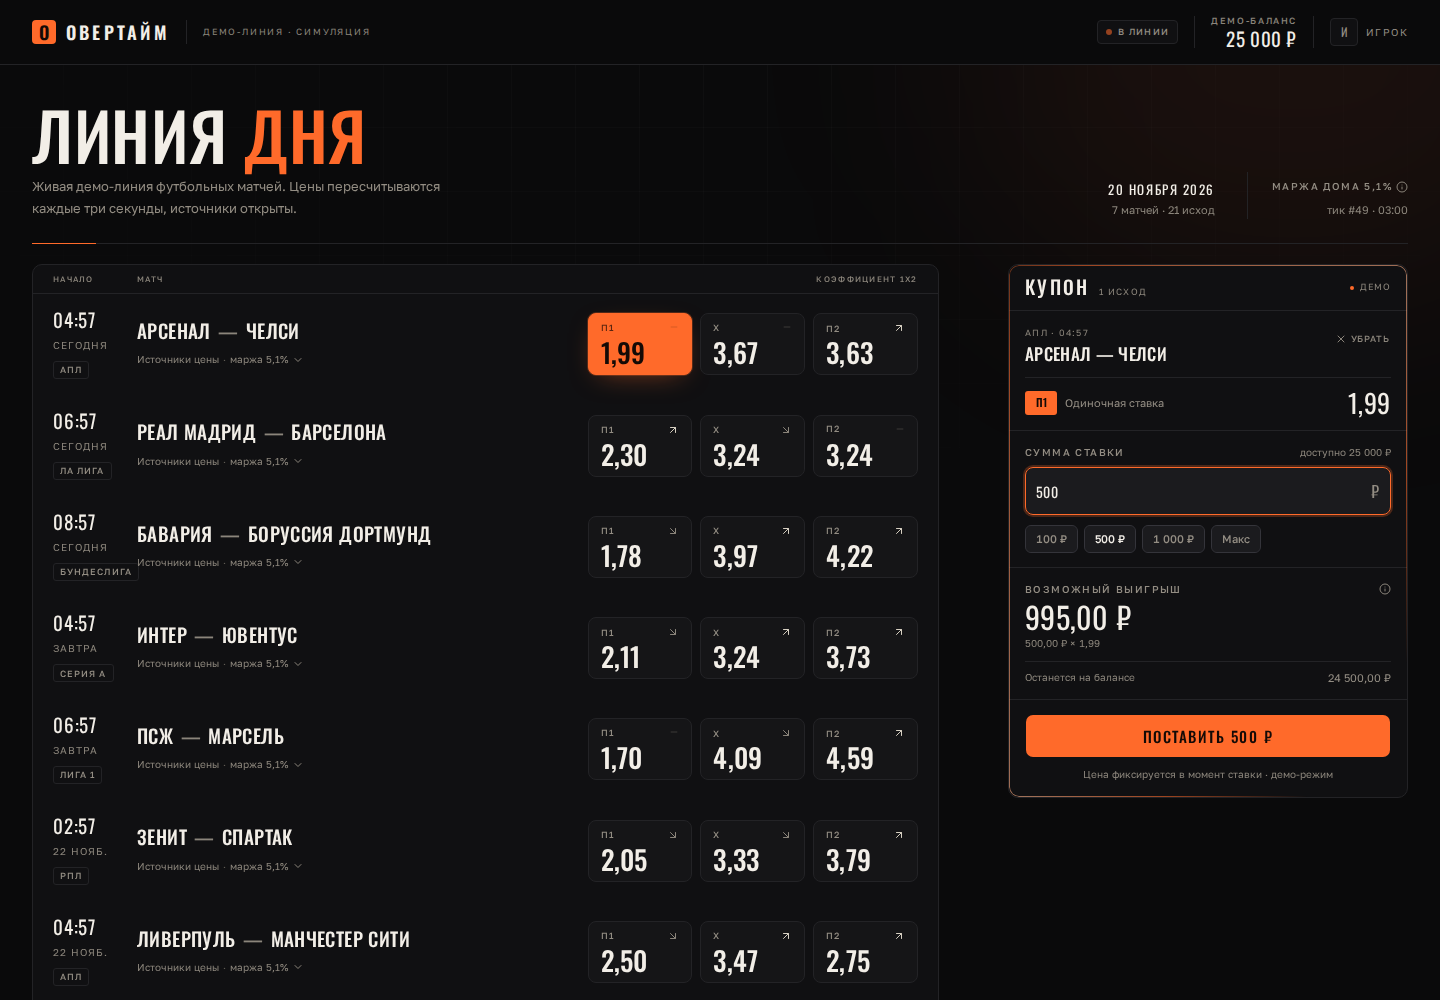
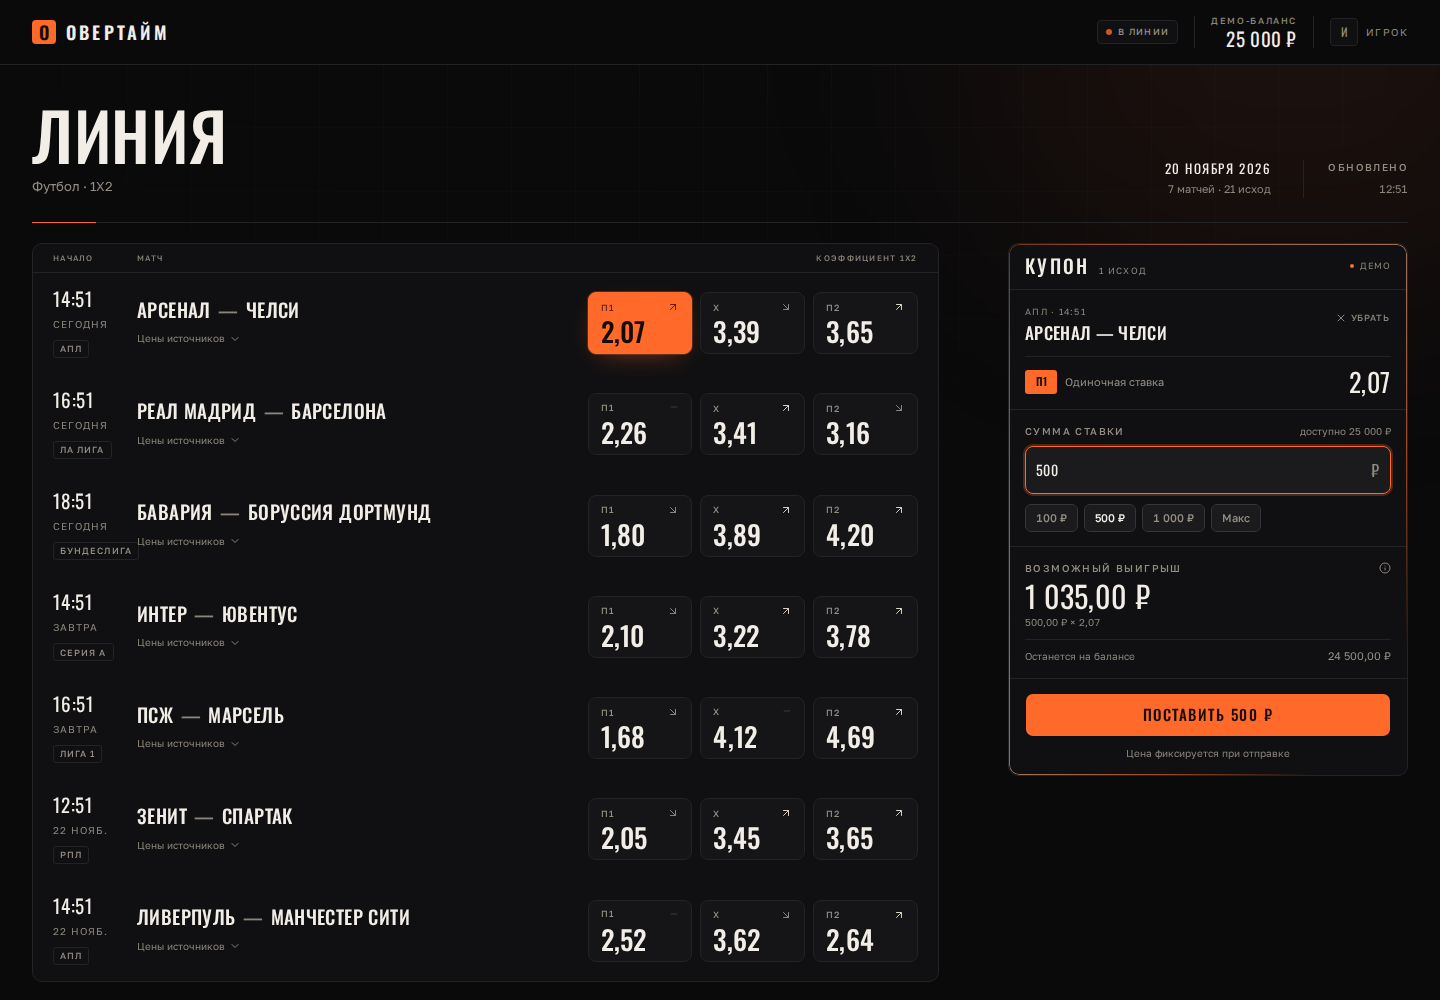
copy: remove margin and internal jargon from the customer UI

diff --git a/frontend/src/components/SourceBreakdown.vue b/frontend/src/components/SourceBreakdown.vue
@@ -1,21 +1,10 @@
 <script setup lang="ts">
-import { computed } from 'vue'
-import { Info } from 'lucide-vue-next'
 import type { Match } from '@/api/types'
-import { Tooltip, TooltipContent, TooltipTrigger } from '@/components/ui/tooltip'
-import { formatMarginBps, formatOdds } from '@/lib/format'
+import { formatOdds } from '@/lib/format'
 
 const props = defineProps<{
   match: Match
-  marginBps: number
 }>()
-
-const margin = computed(() => formatMarginBps(props.marginBps))
-
-const explanation = computed(
-  () =>
-    `PulseBet и SharpLine дают независимые цены. Сначала снимаем их маржу (де-виг), затем смешиваем 40/60 и добавляем маржу дома ${margin.value}. Наша цена округлена вниз до сотых.`,
-)
 
 function sourcePrice(outcomeIndex: number, sourceId: string): string {
   const outcome = props.match.outcomes[outcomeIndex]
@@ -26,39 +15,20 @@ function sourcePrice(outcomeIndex: number, sourceId: string): string {
 
 <template>
   <div class="overflow-hidden rounded-lg border border-line bg-[#0c0c0e]">
-    <div class="flex flex-wrap items-center justify-between gap-x-4 gap-y-1 border-b border-line px-3 py-2">
+    <div class="border-b border-line px-3 py-2">
       <span class="text-[9px] font-medium uppercase tracking-[0.16em] text-muted-foreground">
-        Как собрана цена
+        Цены источников
       </span>
-      <span class="tabular text-[10px] text-faint">де-виг 40/60 · маржа {{ margin }}</span>
     </div>
 
     <table class="w-full border-collapse text-left">
-      <caption class="sr-only">Источники цены для {{ match.homeTeam }} — {{ match.awayTeam }}</caption>
+      <caption class="sr-only">Цены источников для {{ match.homeTeam }} — {{ match.awayTeam }}</caption>
       <thead>
         <tr class="text-[8px] uppercase tracking-[0.14em] text-faint">
           <th scope="col" class="px-3 py-1.5 font-medium">Исход</th>
           <th scope="col" class="px-2 py-1.5 font-medium">PulseBet</th>
           <th scope="col" class="px-2 py-1.5 font-medium">SharpLine</th>
-          <th scope="col" class="px-2 py-1.5 text-right font-medium">
-            <span class="inline-flex items-center gap-1">
-              Наша линия
-              <Tooltip>
-                <TooltipTrigger as-child>
-                  <button
-                    type="button"
-                    class="inline-flex rounded-[2px] text-faint outline-none hover:text-foreground focus-visible:text-sodium focus-visible:outline focus-visible:outline-1 focus-visible:outline-offset-2 focus-visible:outline-sodium"
-                    aria-label="Как считается наша линия"
-                  >
-                    <Info class="size-2.5" aria-hidden="true" />
-                  </button>
-                </TooltipTrigger>
-                <TooltipContent side="top" :side-offset="6" class="max-w-[280px] leading-relaxed">
-                  {{ explanation }}
-                </TooltipContent>
-              </Tooltip>
-            </span>
-          </th>
+          <th scope="col" class="px-2 py-1.5 text-right font-medium">Наша цена</th>
         </tr>
       </thead>
       <tbody>
@@ -84,7 +54,7 @@ function sourcePrice(outcomeIndex: number, sourceId: string): string {
     </table>
 
     <p class="border-t border-line/70 px-3 py-2 text-[10px] leading-relaxed text-faint">
-      Источники симулированы. Наша линия — их консенсус плюс маржа дома, без обещания прибыли.
+      Источники цен симулированы.
     </p>
   </div>
 </template>

diff --git a/frontend/src/components/LineMasthead.vue b/frontend/src/components/LineMasthead.vue
@@ -1,22 +1,14 @@
 <script setup lang="ts">
 import { computed } from 'vue'
-import { Info } from 'lucide-vue-next'
 import { Skeleton } from '@/components/ui/skeleton'
-import { Tooltip, TooltipContent, TooltipTrigger } from '@/components/ui/tooltip'
 import { useLine } from '@/composables/useLine'
-import { formatDateLong, formatInteger, formatMarginBps, formatTime, pluralRu } from '@/lib/format'
+import { formatDateLong, formatInteger, formatTime, pluralRu } from '@/lib/format'
 
 const { snapshot, loading } = useLine()
 
 const matchCount = computed(() => snapshot.value?.matches.length ?? 0)
 const outcomeCount = computed(
   () => snapshot.value?.matches.reduce((sum, match) => sum + match.outcomes.length, 0) ?? 0,
-)
-const margin = computed(() => formatMarginBps(snapshot.value?.marginBps ?? 500))
-
-const marginExplanation = computed(
-  () =>
-    `Две линии (PulseBet ≈ 3% и SharpLine ≈ 6% маржи) де-вигуются, смешиваются 40/60 и получают маржу дома ${margin.value}. Цена округляется вниз до сотых.`,
 )
 </script>
 
@@ -29,11 +21,10 @@ const marginExplanation = computed(
           tabindex="-1"
           class="font-display text-[46px] font-medium uppercase leading-[0.9] tracking-[0.01em] text-foreground sm:text-[58px] xl:text-[66px]"
         >
-          Линия <span class="text-sodium">дня</span>
+          Линия
         </h1>
-        <p class="mt-3 max-w-[54ch] text-[12px] leading-relaxed text-muted-foreground sm:text-[13px]">
-          Живая демо-линия футбольных матчей. Цены пересчитываются каждые три секунды, источники
-          открыты.
+        <p class="mt-3 text-[12px] leading-relaxed text-muted-foreground sm:text-[13px]">
+          Футбол · 1X2
         </p>
       </div>
 
@@ -52,24 +43,13 @@ const marginExplanation = computed(
         </div>
 
         <div class="w-full border-t border-line pt-2.5 text-left min-[360px]:w-auto min-[360px]:border-t-0 min-[360px]:border-l min-[360px]:pt-0 min-[360px]:pl-4 min-[360px]:text-right sm:pl-6">
-          <Tooltip>
-            <TooltipTrigger as-child>
-              <button
-                type="button"
-                class="inline-flex items-center gap-1 rounded-[2px] text-[10px] font-medium uppercase tracking-[0.14em] text-muted-foreground outline-none transition-colors hover:text-foreground focus-visible:text-sodium focus-visible:outline focus-visible:outline-1 focus-visible:outline-offset-2 focus-visible:outline-sodium"
-              >
-                маржа дома {{ margin }}
-                <Info class="size-3 text-faint" aria-hidden="true" />
-              </button>
-            </TooltipTrigger>
-            <TooltipContent side="bottom" :side-offset="8" class="max-w-[280px] leading-relaxed">
-              {{ marginExplanation }}
-            </TooltipContent>
-          </Tooltip>
-          <p v-if="snapshot" class="mt-1.5 text-[11px] tabular text-faint">
-            тик #{{ snapshot.seq }} · {{ formatTime(snapshot.updatedAt) }}
+          <p class="text-[10px] font-medium uppercase tracking-[0.14em] text-muted-foreground">
+            Обновлено
           </p>
-          <Skeleton v-else-if="loading" class="mt-1.5 h-3 w-20 rounded-[2px]" />
+          <p v-if="snapshot" class="mt-1.5 text-[11px] tabular text-faint">
+            {{ formatTime(snapshot.updatedAt) }}
+          </p>
+          <Skeleton v-else-if="loading" class="mt-1.5 h-3 w-12 rounded-[2px]" />
         </div>
       </div>
     </div>

diff --git a/frontend/src/composables/useBetSlip.ts b/frontend/src/composables/useBetSlip.ts
@@ -145,7 +145,7 @@ const fieldError = computed<string | null>(() => {
 const submitBlockedReason = computed<string | null>(() => {
   if (inFlight.value) return 'Отправляем ставку…'
   if (!active.value) return 'Выберите исход в линии'
-  if (line.stale.value) return 'Линия устарела. Ждём свежий тик.'
+  if (line.stale.value) return 'Линия устарела. Ждём обновления.'
   if (!session.player.value) {
     return session.loading.value ? 'Загружаем баланс…' : 'Баланс недоступен'
   }
@@ -246,7 +246,7 @@ function onPlaced(response: PlaceBetResponse): void {
   const summary = `${bet.matchLabel} · ${bet.outcomeLabel} · ${formatMoneyWhole(bet.stakeMinor)}`
 
   toast.success(response.replayed ? 'Ставка уже принята' : 'Ставка принята', {
-    description: response.replayed ? `${summary}. Повторный запрос не списал деньги.` : summary,
+    description: response.replayed ? `${summary}. Деньги не списаны повторно.` : summary,
   })
 
   session.setBalance(response.balanceMinor)
@@ -316,8 +316,8 @@ function handleFailure(cause: unknown, fromConflict: boolean): void {
       kind: 'network',
       message:
         error.code === 'timeout'
-          ? 'Сервер не ответил. Повторите отправку: ключ ставки сохранён, двойного списания не будет.'
-          : 'Нет связи с сервером. Повторите отправку: ключ ставки сохранён, двойного списания не будет.',
+          ? 'Сервер не ответил. Повторите отправку — ставка не спишется дважды.'
+          : 'Нет связи с сервером. Повторите отправку — ставка не спишется дважды.',
       retryable: true,
     }
     toast.error(error.code === 'timeout' ? 'Сервер не ответил' : 'Нет связи с сервером', {
@@ -393,7 +393,7 @@ async function acceptNewPrice(): Promise<void> {
   if (!conflict.value || resolvingConflict.value || inFlight.value) return
   if (!active.value || stakeMinor.value === null) return
   if (line.stale.value) {
-    toast.error('Линия устарела', { description: 'Дождитесь свежего обновления и повторите.' })
+    toast.error('Линия устарела', { description: 'Дождитесь обновления линии и повторите.' })
     return
   }
 
@@ -437,7 +437,7 @@ watch(
     if (isStale) {
       submitError.value = {
         kind: 'stale',
-        message: 'Линия устарела. Ставка не отправлена — дождитесь свежего обновления.',
+        message: 'Ставка не отправлена. Дождитесь обновления линии.',
         retryable: false,
       }
     } else if (submitError.value?.kind === 'stale') {

diff --git a/frontend/src/components/MatchList.vue b/frontend/src/components/MatchList.vue
@@ -2,7 +2,6 @@
 import { WifiOff } from 'lucide-vue-next'
 import { Skeleton } from '@/components/ui/skeleton'
 import { useLine } from '@/composables/useLine'
-import { formatMarginBps } from '@/lib/format'
 import EmptyState from './EmptyState.vue'
 import ErrorPanel from './ErrorPanel.vue'
 import MatchCard from './MatchCard.vue'
@@ -21,8 +20,7 @@ const { snapshot, loading, loadError, stale, refresh } = useLine()
     >
       <WifiOff class="mt-0.5 size-3.5 shrink-0 text-[#f26d6d]" aria-hidden="true" />
       <p class="text-[11px] leading-relaxed text-[#c7a9a9]">
-        Нет свежих цен больше 9 секунд. Ставки приостановлены: коэффициенты на экране могли
-        устареть.
+        Линия не обновляется. Ставки приостановлены, коэффициенты могли устареть.
       </p>
     </div>
 
@@ -72,7 +70,7 @@ const { snapshot, loading, loadError, stale, refresh } = useLine()
       <EmptyState
         v-if="snapshot.matches.length === 0"
         title="Линия пуста"
-        description="Сервер вернул пустой список матчей. Загляните чуть позже."
+        description="Матчей сейчас нет. Загляните позже."
       />
 
       <TransitionGroup
@@ -83,15 +81,6 @@ const { snapshot, loading, loadError, stale, refresh } = useLine()
       >
         <MatchCard v-for="match in snapshot.matches" :key="match.id" :match="match" />
       </TransitionGroup>
-
-      <div class="hidden items-center justify-between border-t border-line px-5 py-2.5 lg:flex">
-        <span class="text-[9px] uppercase tracking-[0.14em] text-faint">
-          Демо-линия · симуляция
-        </span>
-        <span class="text-[9px] uppercase tracking-[0.14em] text-faint">
-          Тик #{{ snapshot.seq }} · маржа {{ formatMarginBps(snapshot.marginBps) }}
-        </span>
-      </div>
     </div>
   </section>
 </template>

diff --git a/frontend/src/components/MatchCard.vue b/frontend/src/components/MatchCard.vue
@@ -5,18 +5,17 @@ import type { Match } from '@/api/types'
 import { Badge } from '@/components/ui/badge'
 import { useBetSlip } from '@/composables/useBetSlip'
 import { useLine } from '@/composables/useLine'
-import { formatKickoff, formatKickoffDay, formatKickoffFull, formatMarginBps } from '@/lib/format'
+import { formatKickoff, formatKickoffDay, formatKickoffFull } from '@/lib/format'
 import OddsButton from './OddsButton.vue'
 import SourceBreakdown from './SourceBreakdown.vue'
 
 const props = defineProps<{ match: Match }>()
 
 const { active, inFlight, hasUnresolvedAttempt, select } = useBetSlip()
-const { snapshot, stale } = useLine()
+const { stale } = useLine()
 
 const expanded = ref(false)
 const sourcesId = computed(() => `sources-${props.match.id}`)
-const margin = computed(() => formatMarginBps(snapshot.value?.marginBps ?? 500))
 const matchLabel = computed(() => `${props.match.homeTeam} — ${props.match.awayTeam}`)
 const rowSelected = computed(() => active.value?.match.id === props.match.id)
 
@@ -68,9 +67,7 @@ const oddsDisabled = computed(() => stale.value || inFlight.value || hasUnresolv
         :aria-controls="sourcesId"
         @click="expanded = !expanded"
       >
-        <span>Источники цены</span>
-        <span class="text-[#5f5b54]">·</span>
-        <span>маржа {{ margin }}</span>
+        <span>Цены источников</span>
         <ChevronDown
           class="size-3 transition-transform duration-200"
           :class="expanded ? 'rotate-180' : ''"
@@ -93,7 +90,7 @@ const oddsDisabled = computed(() => stale.value || inFlight.value || hasUnresolv
 
     <Transition name="sources">
       <div v-if="expanded" :id="sourcesId" class="mt-3 lg:col-span-3">
-        <SourceBreakdown :match="match" :margin-bps="snapshot?.marginBps ?? 500" />
+        <SourceBreakdown :match="match" />
       </div>
     </Transition>
   </article>

diff --git a/frontend/src/composables/useLine.ts b/frontend/src/composables/useLine.ts
@@ -76,7 +76,7 @@ function connectStream(): void {
         disconnected = true
         if (phase.value === 'live') {
           toast.warning('Переподключение к линии', {
-            description: 'Цены остаются доступными, пока не устарели.',
+            description: 'Пытаемся восстановить связь.',
           })
         }
       }
@@ -121,12 +121,12 @@ function start(): void {
   stopStaleWatch = watch(stale, (isStale) => {
     if (isStale) {
       toast.error('Линия устарела', {
-        description: 'Ставки приостановлены, пока не придёт свежее обновление.',
+        description: 'Ставки приостановлены до обновления линии.',
         duration: 6_000,
       })
     } else if (snapshot.value) {
-      toast.success('Линия снова в эфире', {
-        description: 'Коэффициенты снова обновляются.',
+      toast.success('Связь восстановлена', {
+        description: 'Ставки снова доступны.',
         duration: 4_000,
       })
     }

diff --git a/frontend/src/components/BetSlip.vue b/frontend/src/components/BetSlip.vue
@@ -75,13 +75,8 @@ const errorIsFunds = computed(() => submitError.value?.kind === 'insufficient_fu
     <template v-if="!active">
       <EmptyState
         title="Купон пуст"
-        description="Нажмите на коэффициент в линии — исход, цена и сумма появятся здесь."
+        description="Выберите коэффициент, чтобы сделать ставку."
       />
-      <p
-        class="border-t border-line px-4 py-3 text-center text-[9px] uppercase leading-relaxed tracking-[0.12em] text-faint"
-      >
-        1X2 · одиночные ставки · демо-баланс
-      </p>
     </template>
 
     <form v-else novalidate @submit.prevent="submit">
@@ -202,7 +197,7 @@ const errorIsFunds = computed(() => submitError.value?.kind === 'insufficient_fu
           {{ submitBlockedReason }}
         </p>
         <p v-else class="mt-2 text-center text-[10px] leading-relaxed text-faint">
-          Цена фиксируется в момент ставки · демо-режим
+          Цена фиксируется при отправке
         </p>
       </div>
     </form>

diff --git a/frontend/src/lib/format.test.ts b/frontend/src/lib/format.test.ts
@@ -1,7 +1,6 @@
 import { describe, expect, it } from 'vitest'
 import {
   formatKickoffDay,
-  formatMarginBps,
   formatMoney,
   formatOdds,
   formatStakeInput,
@@ -34,9 +33,7 @@ describe('money and odds formatting', () => {
     expect(formatStakeInput(50_000)).toBe('500')
   })
 
-  it('formats margin and Russian plurals for the masthead', () => {
-    expect(formatMarginBps(500)).toBe('5,0%')
-    expect(formatMarginBps(505)).toBe('5,1%')
+  it('formats Russian plurals for the masthead', () => {
     expect(pluralRu(8, ['матч', 'матча', 'матчей'])).toBe('матчей')
     expect(pluralRu(2, ['матч', 'матча', 'матчей'])).toBe('матча')
     expect(pluralRu(21, ['матч', 'матча', 'матчей'])).toBe('матч')

diff --git a/frontend/src/App.vue b/frontend/src/App.vue
@@ -60,8 +60,8 @@ onBeforeUnmount(stop)
         <footer
           class="mt-10 flex flex-wrap items-center justify-between gap-x-6 gap-y-2 border-t border-line pt-4 pb-2 text-[10px] leading-relaxed text-faint"
         >
-          <p>Все матчи, коэффициенты и баланс симулированы. Реальных ставок и выплат нет.</p>
-          <p class="uppercase tracking-[0.14em]">Овертайм · демо-линия</p>
+          <p>Матчи и коэффициенты симулированы. Реальных ставок и выплат нет.</p>
+          <p class="uppercase tracking-[0.14em]">Овертайм · демо</p>
         </footer>
       </main>
     </div>

diff --git a/frontend/src/components/ErrorPanel.vue b/frontend/src/components/ErrorPanel.vue
@@ -22,7 +22,7 @@ const emit = defineEmits<{ retry: [] }>()
       {{ title ?? 'Связь с линией потеряна' }}
     </h2>
     <p class="mx-auto mt-1.5 max-w-[42ch] text-[12px] leading-relaxed text-[#b9a7a7]">
-      {{ description ?? 'Бэкенд не ответил. Повторите запрос — данные появятся, как только связь вернётся.' }}
+      {{ description ?? 'Не удалось загрузить данные. Проверьте связь и повторите запрос.' }}
     </p>
     <Button variant="outline" size="sm" class="mt-5 border-[#4a2c2c] hover:bg-[#221517]" @click="emit('retry')">
       Повторить

diff --git a/frontend/index.html b/frontend/index.html
@@ -7,9 +7,9 @@
     <meta name="theme-color" content="#0a0a0b" />
     <meta
       name="description"
-      content="Овертайм — демо-линия футбольных матчей 1X2. Симуляция: виртуальный баланс, реальных ставок нет."
+      content="Овертайм — футбольная линия 1X2. Демо-режим: виртуальный баланс, реальных ставок и выплат нет."
     />
-    <title>Овертайм — линия дня</title>
+    <title>Овертайм — футбол, линия 1X2</title>
   </head>
   <body>
     <div id="app"></div>

diff --git a/frontend/src/components/PotentialPayout.vue b/frontend/src/components/PotentialPayout.vue
@@ -47,8 +47,7 @@ const formula = computed(() => {
           </button>
         </TooltipTrigger>
         <TooltipContent side="top" :side-offset="6" class="max-w-[260px] leading-relaxed">
-          Ставка умножается на коэффициент, результат округляется вниз до копейки. В демо-режиме
-          выплата не начисляется.
+          Ставка × коэффициент. В демо-режиме выплата не начисляется.
         </TooltipContent>
       </Tooltip>
     </div>
